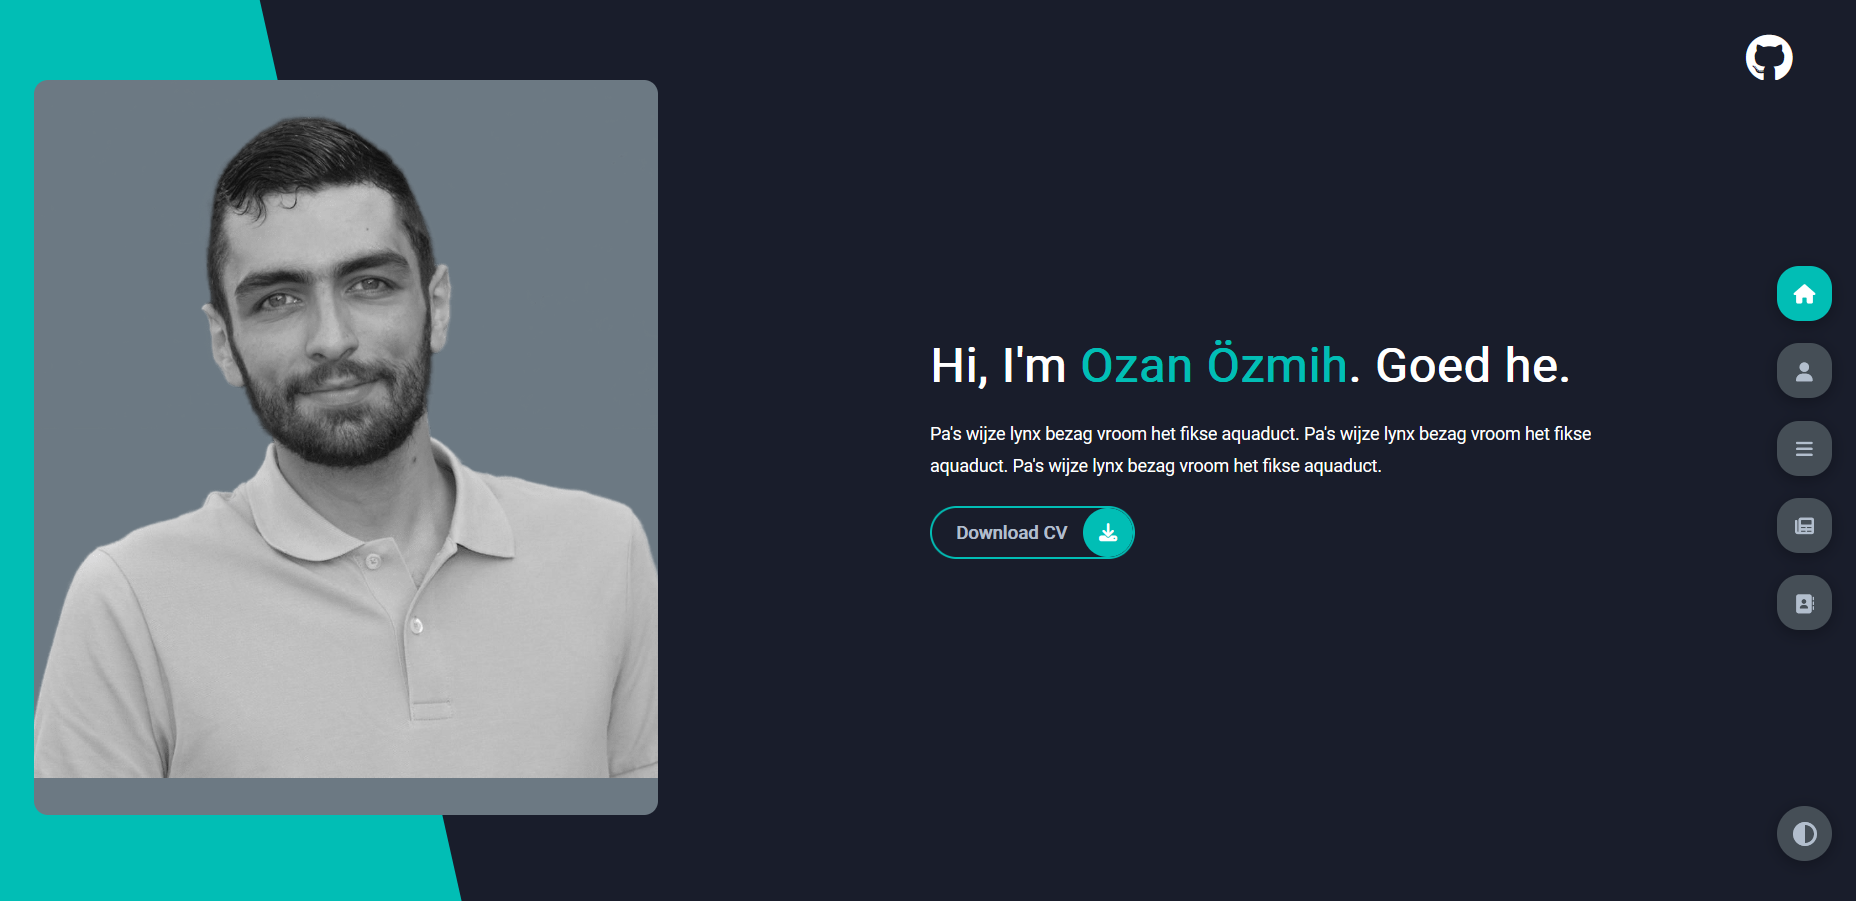
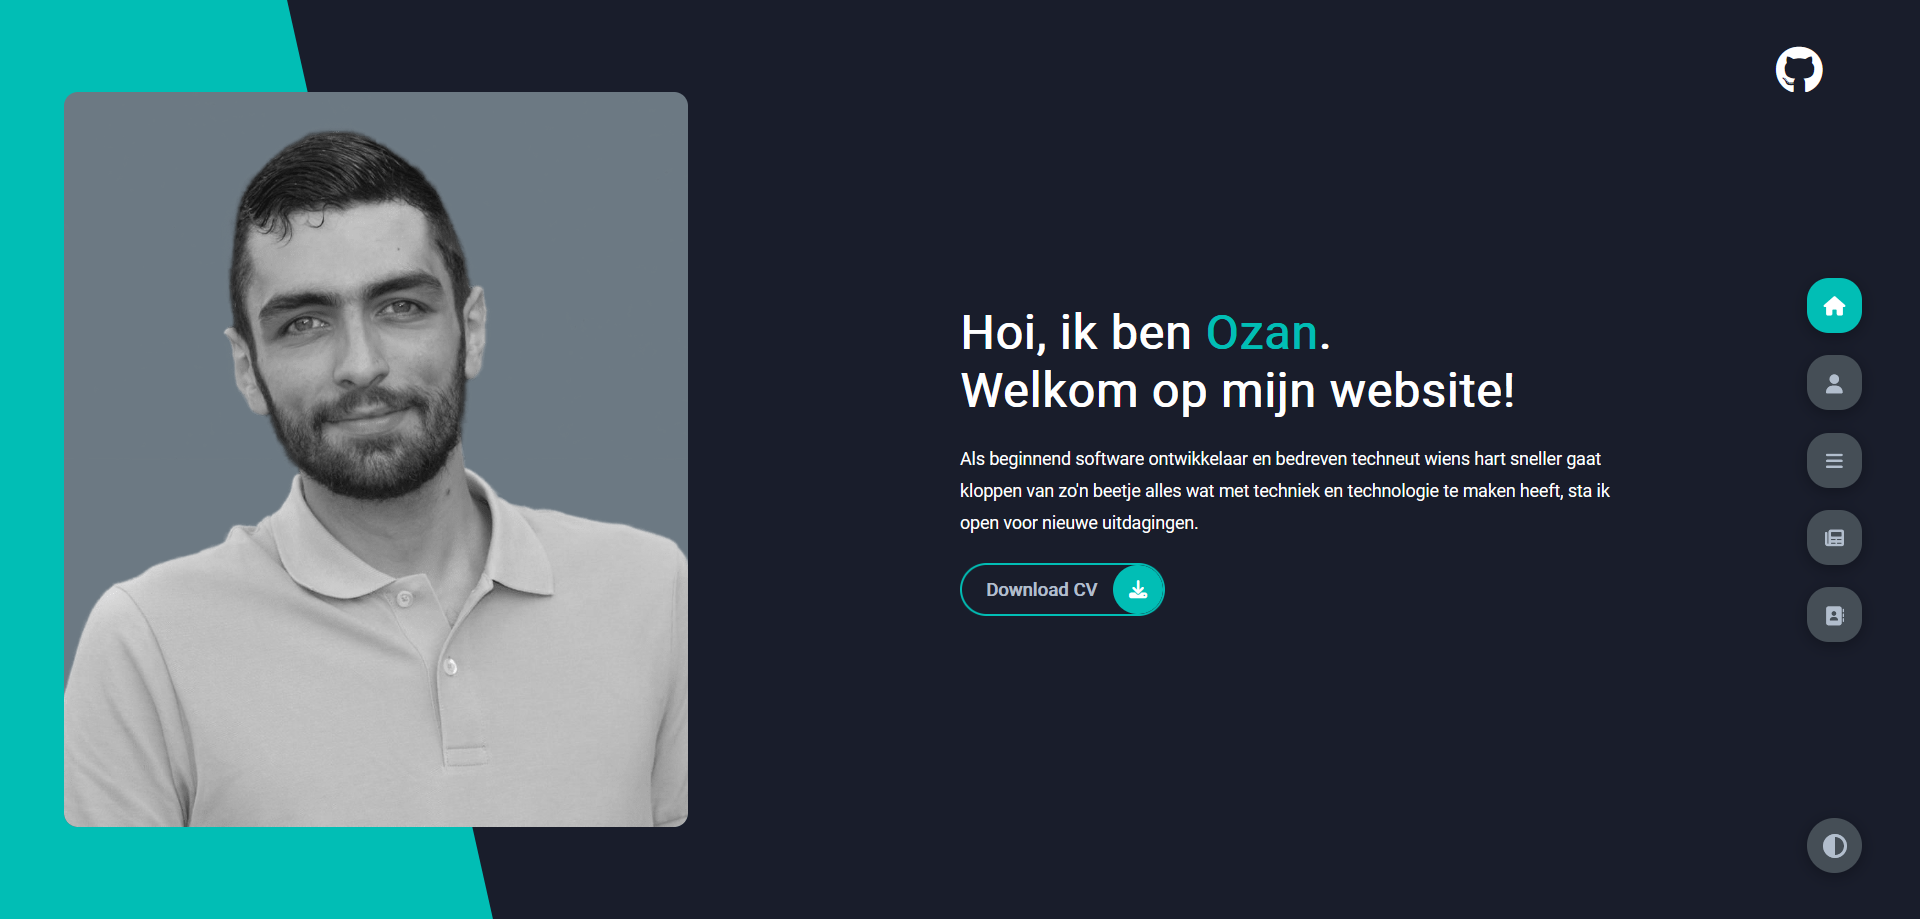
update

diff --git a/index.html b/index.html
@@ -31,9 +31,7 @@
                     Welkom op mijn website!
                 </h1>
                 <p>
-                    Pa's wijze lynx bezag vroom het fikse aquaduct.
-                    Pa's wijze lynx bezag vroom het fikse aquaduct.
-                    Pa's wijze lynx bezag vroom het fikse aquaduct.
+                    Als beginnend software ontwikkelaar en bedreven techneut wiens hart sneller gaat kloppen van zo'n beetje alles wat met techniek en technologie te maken heeft, sta ik open voor nieuwe uitdagingen.
                 </p>
                 <br>
                 <div class="btn-con">
@@ -355,24 +353,24 @@
     </section>   
     
     <div class="controls">
-        <div class="control control-1 active-btn" data-id="home">
+        <div class="control control-1 active-btn" data-id="home" title="Home">
             <i class="fa-solid fa-house"></i>
         </div>
-        <div class="control control-2" data-id="about">
+        <div class="control control-2" data-id="about" title="Over mij">
             <i class="fa-solid fa-user"></i>
         </div>
-        <div class="control control-3" data-id="portfolio">
+        <div class="control control-3" data-id="portfolio" title="Portfolio">
             <i class="fa-solid fa-bars"></i>
         </div>
-        <div class="control control-4" data-id="blogs">
+        <div class="control control-4" data-id="blogs" title="NNB">
             <i class="fa-solid fa-newspaper"></i>
         </div>
-        <div class="control control-5" data-id="contact">
+        <div class="control control-5" data-id="contact" title="Contact">
             <i class="fa-solid fa-address-book"></i>
         </div>
     </div>
 
-    <div class="theme-btn">
+    <div class="theme-btn" title="toggle dark/light theme">
         <i class="fa-solid fa-circle-half-stroke"></i>
     </div>
 
